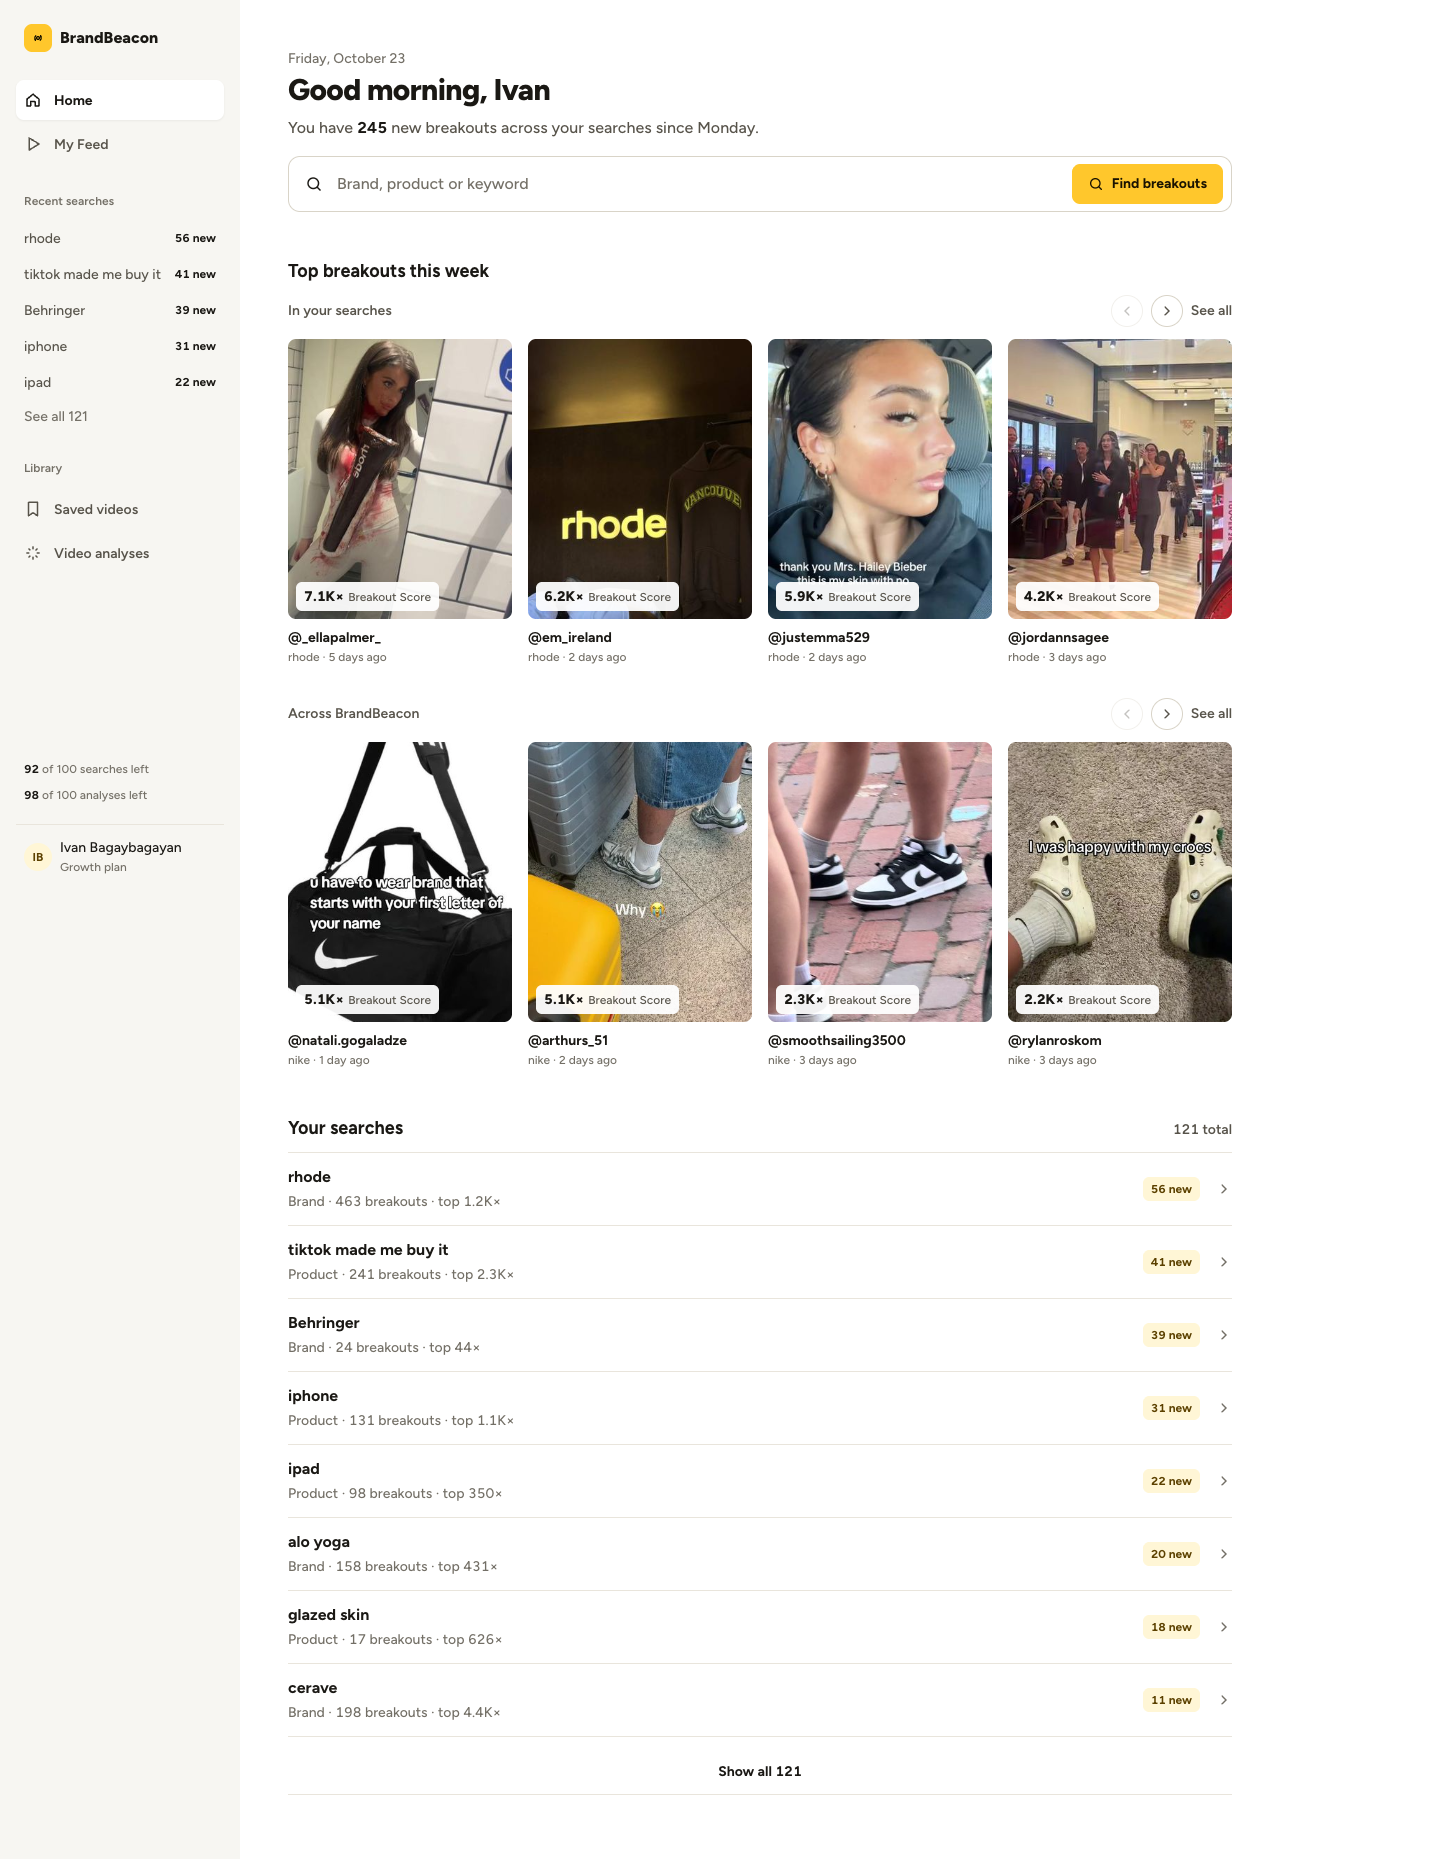
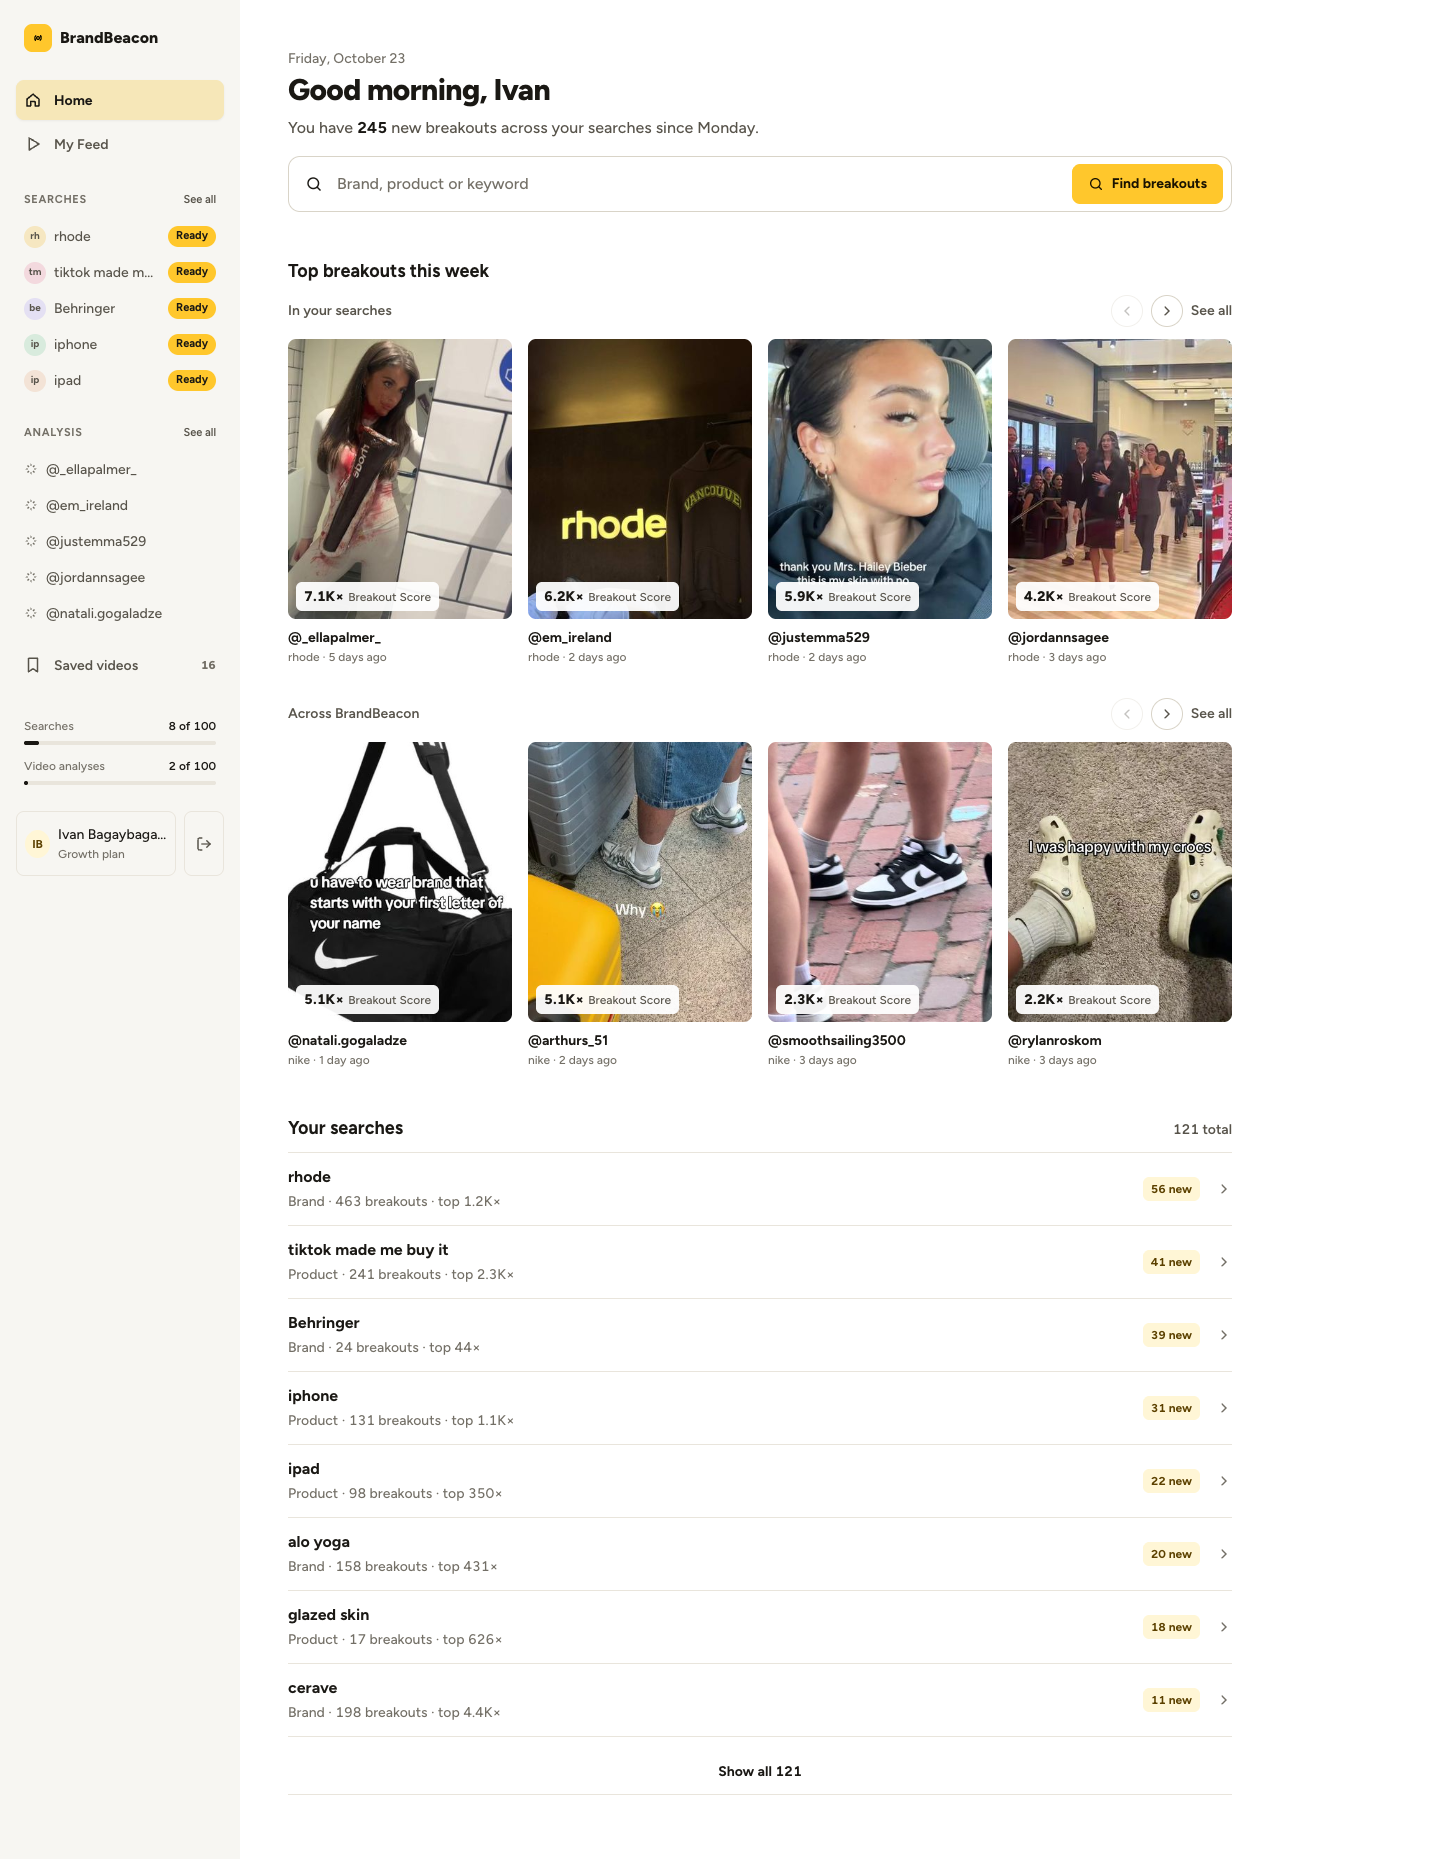
BB Home D: menu from the live app (Ivan, 23 Oct), D is final

diff --git a/bb-3/home-refresh/app.html b/bb-3/home-refresh/app.html
@@ -199,6 +199,22 @@ svg{flex:none}
   .tbl td.nm small{display:block;font-weight:500;font-size:var(--t12);color:var(--ink3)}
 }
 @media (min-width:701px){.tbl td.nm small{display:none}}
+/* D: the menu from the live BrandBeacon app (Ivan, 23 Oct) */
+.nv.lv{background:#F6E7B8}
+.slh{display:flex;justify-content:space-between;align-items:center;padding:var(--s5) var(--s2) var(--s2);font-size:11px;font-weight:700;letter-spacing:.06em;text-transform:uppercase;color:var(--ink3)}
+.slh a{text-transform:none;letter-spacing:0;font-weight:600;color:var(--ink2)}
+.lsi{display:flex;align-items:center;gap:var(--s2);height:32px;padding:0 var(--s2);font-size:var(--t14);color:var(--ink2);border-radius:var(--r)}
+.lsi span{flex:1;min-width:0;white-space:nowrap;overflow:hidden;text-overflow:ellipsis}
+.lsi i{width:22px;height:22px;border-radius:50%;display:grid;place-items:center;font-style:normal;font-size:10px;font-weight:700;color:var(--ink2);flex:none}
+.lsi b{font-size:11px;font-weight:700;background:var(--y);color:var(--ink);padding:2px 8px;border-radius:999px}
+.lsi.an svg{width:14px;height:14px;flex:none;color:var(--ink3)}
+.nv.sv{margin-top:var(--s3)}.nv.sv span{flex:1}.nv.sv b{font-size:var(--t12);color:var(--ink3)}
+.luse{margin-top:auto;display:flex;flex-direction:column;gap:6px;padding:0 var(--s2) var(--s4);font-size:var(--t12);color:var(--ink3)}
+.lu{display:flex;justify-content:space-between}.lu b{color:var(--ink);font-weight:600}
+.luse .bar{height:4px;border-radius:2px;background:var(--line);margin-bottom:6px}.luse .bar i{display:block;height:100%;border-radius:2px;background:var(--ink)}
+.lme{display:flex;gap:var(--s2);align-items:stretch}.lme .me{flex:1;border:1px solid var(--line);border-radius:var(--r);padding:var(--s3) var(--s2)}
+.lme .me{min-width:0}.lme .me>div{min-width:0;white-space:nowrap;overflow:hidden;text-overflow:ellipsis}.lme .me small{display:block;overflow:hidden;text-overflow:ellipsis}
+.lme .out{display:grid;place-items:center;width:40px;border:1px solid var(--line);border-radius:var(--r);color:var(--ink2)}
 </style>
 </head>
 <body>
@@ -272,6 +288,15 @@ function side(){return logo()+
  '<div class="sl">Library</div><a class="nv" href="#">'+I.save+'Saved videos</a><a class="nv" href="#">'+I.spark+'Video analyses</a>'+
  '<div class="use"><div><b class="num">92</b> of 100 searches left</div><div><b class="num">98</b> of 100 analyses left</div></div>'+
  '<div class="me"><i>IB</i><div>Ivan Bagaybagayan<small>Growth plan</small></div></div>';}
+function sideLive(){var sr=["rhode","tiktok made me buy it","Behringer","iphone","ipad"],an=["_ellapalmer_","em_ireland","justemma529","jordannsagee","natali.gogaladze"],tint=["#F6E7C1","#F3D9DE","#E4E0F3","#D8EBDD","#F3E3D6"];
+ function ini(n){var w=n.split(" ");return (w.length>1?w[0][0]+w[1][0]:n.slice(0,2)).toLowerCase();}
+ return logo()+
+ '<a class="nv on lv" href="#">'+I.home+'Home</a><a class="nv" href="#">'+I.feed+'My Feed</a>'+
+ '<div class="slh"><span>Searches</span><a href="#">See all</a></div>'+sr.map(function(n,i){return '<a class="lsi" href="#"><i style="background:'+tint[i]+'">'+ini(n)+'</i><span>'+n+'</span><b>Ready</b></a>';}).join("")+
+ '<div class="slh"><span>Analysis</span><a href="#">See all</a></div>'+an.map(function(h){return '<a class="lsi an" href="#">'+I.spark+'<span>@'+h+'</span></a>';}).join("")+
+ '<a class="nv sv" href="#">'+I.save+'<span>Saved videos</span><b class="num">16</b></a>'+
+ '<div class="luse"><div class="lu"><span>Searches</span><b class="num">8 of 100</b></div><div class="bar"><i style="width:8%"></i></div><div class="lu"><span>Video analyses</span><b class="num">2 of 100</b></div><div class="bar"><i style="width:2%"></i></div></div>'+
+ '<div class="lme"><div class="me"><i>IB</i><div>Ivan Bagaybagayan<small>Growth plan</small></div></div><a class="out" href="#" aria-label="Log out"><svg width="16" height="16" viewBox="0 0 24 24" fill="none" stroke="currentColor" stroke-width="2" stroke-linecap="round"><path d="M9 21H5a2 2 0 0 1-2-2V5a2 2 0 0 1 2-2h4"/><path d="M16 17l5-5-5-5"/><path d="M21 12H9"/></svg></a></div>';}
 function sform(ph){return '<form class="sf" onsubmit="return false">'+I.search+'<input placeholder="'+(ph||"Brand, product or keyword")+'"><button class="btn y" type="submit">'+I.search.replace('width="18" height="18"','width="16" height="16"')+'<span>Find breakouts</span></button></form>';}
 function chips(lb){return '<div class="chips"><span class="lb">'+(lb||"Try")+'</span>'+CH.map(function(c){return '<a class="chip" href="#">'+c+'</a>';}).join("")+'</div>';}
 function rowS(s){return '<a class="row" href="#"><span class="tx"><span class="nm">'+s.n+'</span><br><span class="mt num">'+s.t+' · '+s.b+' breakouts<i> · top '+s.top+'×</i></span></span><span class="nw num'+(s.nw?'':' z')+'">'+(s.nw?s.nw+' new':'Nothing new')+'</span>'+I.chev+'</a>';}
@@ -313,7 +338,7 @@ var VIEW={
   '<div class="rows" id="hr">'+hrows("nw","all")+'</div>'+
   '<p class="note">Showing the 10 searches read from your Home. The live page lists all 121, 20 at a time.</p>'+
   '</div></div>';}};
-document.getElementById("side").innerHTML=side();
+document.getElementById("side").innerHTML=(v==="d"?sideLive():side());
 document.getElementById("mtop").innerHTML=logo()+'<span class="r"><span class="num">92 left</span>'+I.menu+'</span>';
 var w=document.getElementById("wrap");w.outerHTML=(VIEW[v]||VIEW.a)();
 document.querySelectorAll(".arw").forEach(function(b){var s=document.getElementById(b.dataset.for);

diff --git a/bb-3/home-refresh/index.html b/bb-3/home-refresh/index.html
@@ -106,7 +106,7 @@ ul.q{margin:0;padding-left:20px;color:var(--ink2);display:flex;flex-direction:co
 </section>
 
 <section class="opt" id="d">
- <div class="oh"><div><h2>D. Your reference (new) <span class="pick">Built from your 22 Oct image</span></h2><p class="bet">Your layout: a greeting with this week's count, the search bar, then Top breakouts this week in two sliding rows (In your searches, Across BrandBeacon), then 8 searches with Show all.</p></div><a class="try" href="app.html?v=d">Try it</a></div>
+ <div class="oh"><div><h2>D. Your reference (final) <span class="pick">Your 22 Oct image, with the menu from the live app (23 Oct)</span></h2><p class="bet">Your layout: a greeting with this week's count, the search bar, then Top breakouts this week in two sliding rows (In your searches, Across BrandBeacon), then 8 searches with Show all.</p></div><a class="try" href="app.html?v=d">Try it</a></div>
  <div class="shots"><div class="shot"><img src="shots/d-1440.png" alt="Option D desktop"></div><div class="shot ph"><img src="shots/d-390.png" alt="Option D phone"></div></div>
  <div class="facts">
   <div><h3>What changes</h3><p>Two rows of 7 breakouts each. Four show at a time on desktop, the arrows slide to the next four, and on phone the rows swipe sideways. Your searches shows 8 rows with the new count as a small yellow tag. Show all 121 opens the full search history, sortable by most new, most breakouts, next refresh or A to Z, with All, Brands and Products tabs.</p></div>
